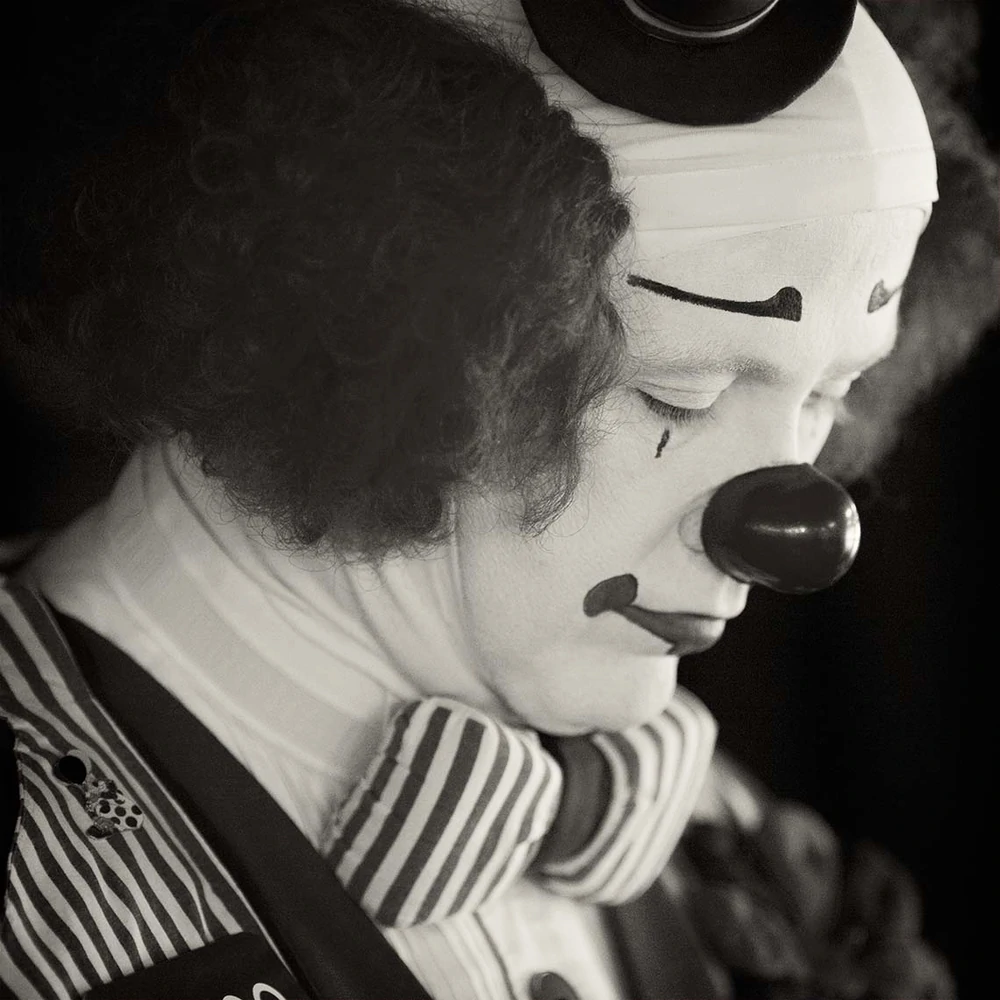
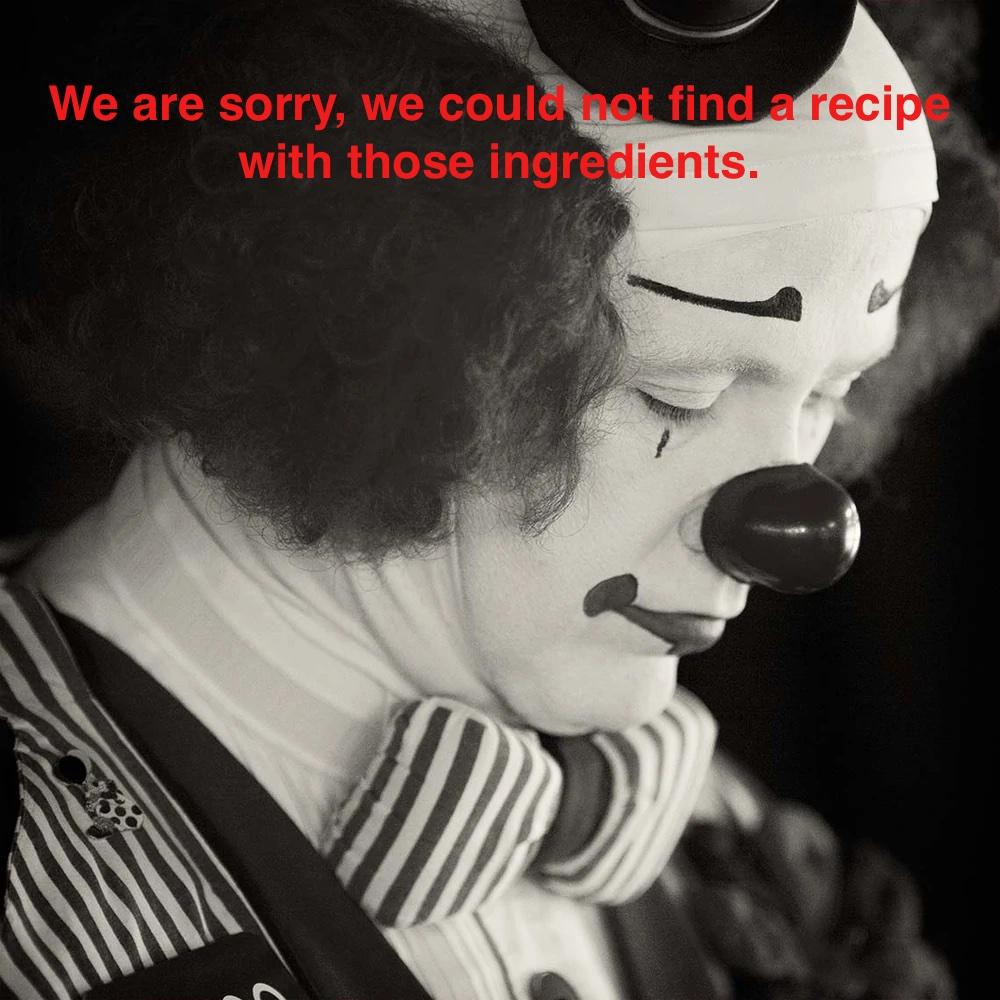
added no recipe display

Changed region(s): [[0.031, 0.062, 0.961, 0.186]]

diff --git a/assets/js/index.js b/assets/js/index.js
@@ -293,12 +293,8 @@ function getEntrees() {
       console.log(response);
       if (response.results.length === 0) {
         $("#dynamic-ingredient-list").empty();
-        let pElement = $("p").text(
-          "We are sorry we could not find you a recipe"
-        );
-        console.log(pElement.text());
         let sadClown = $("<img src='../assets/images/sadclown.jpg'>");
-        $("#dynamic-ingredient-list").append(pElement, sadClown);
+        $("#dynamic-ingredient-list").append(sadClown);
       } else {
         // making variable for recipe array
         var recipes = response.results;
